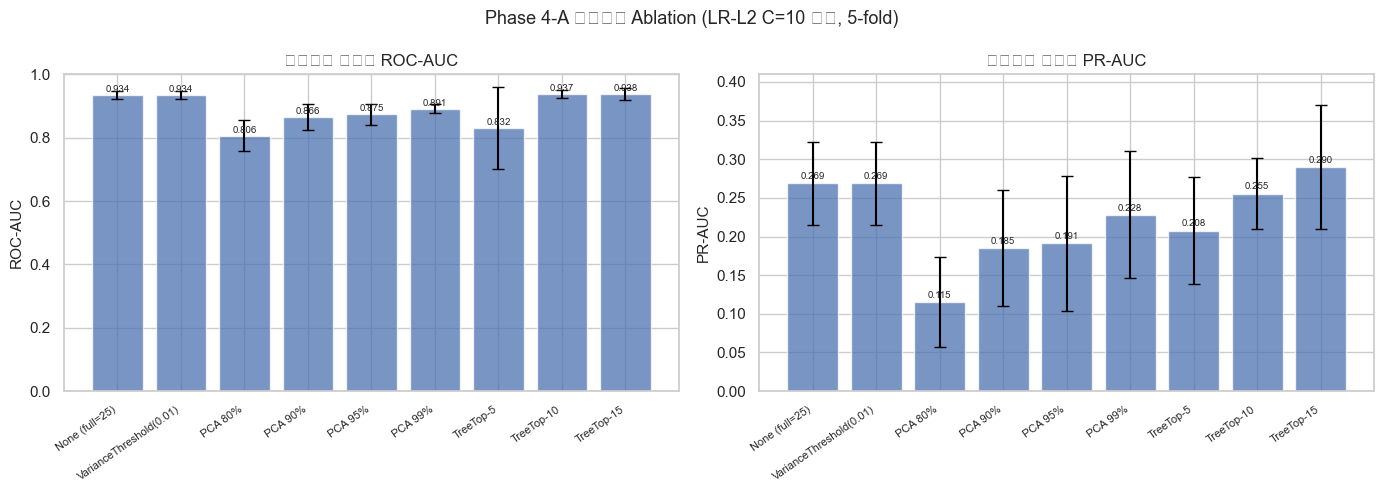
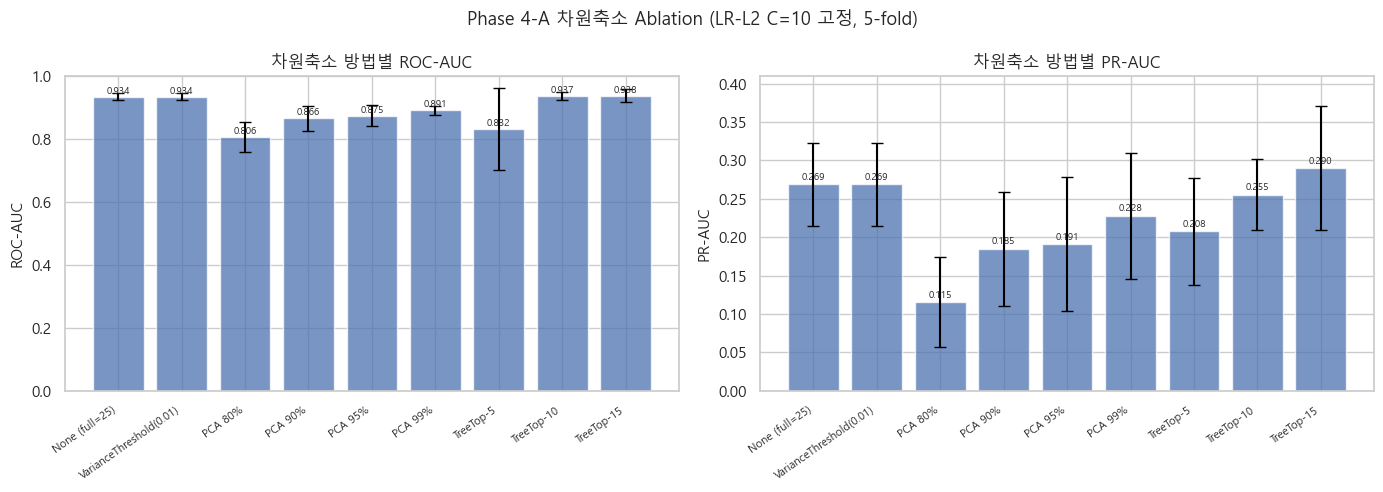
@ fix: Korean font in run_dim_reduction.py (setup_korean_font after sns.set_theme)
Regenerated dim_reduction_comparison, dim_reduction_feature_importance,
eda_pca_2d_scatter with correct Malgun Gothic rendering.

@

diff --git a/run_dim_reduction.py b/run_dim_reduction.py
@@ -21,7 +21,7 @@ from sklearn.ensemble import RandomForestClassifier
 from sklearn.feature_selection import VarianceThreshold
 from sklearn.linear_model import LogisticRegression
 
-from utils import set_seed
+from utils import set_seed, setup_korean_font
 from data import load_raw, get_fold
 from preprocess import get_feature_cols, fit_transform_fold
 from evaluate import compute_metrics, aggregate_fold_metrics
@@ -30,6 +30,7 @@ set_seed(42)
 TABLES_DIR  = Path('results/tables');  TABLES_DIR.mkdir(parents=True, exist_ok=True)
 FIGURES_DIR = Path('results/figures'); FIGURES_DIR.mkdir(parents=True, exist_ok=True)
 sns.set_theme(style='whitegrid', palette='muted')
+setup_korean_font()
 
 df = load_raw('labeled_data')
 FEAT_COLS = get_feature_cols(df)
